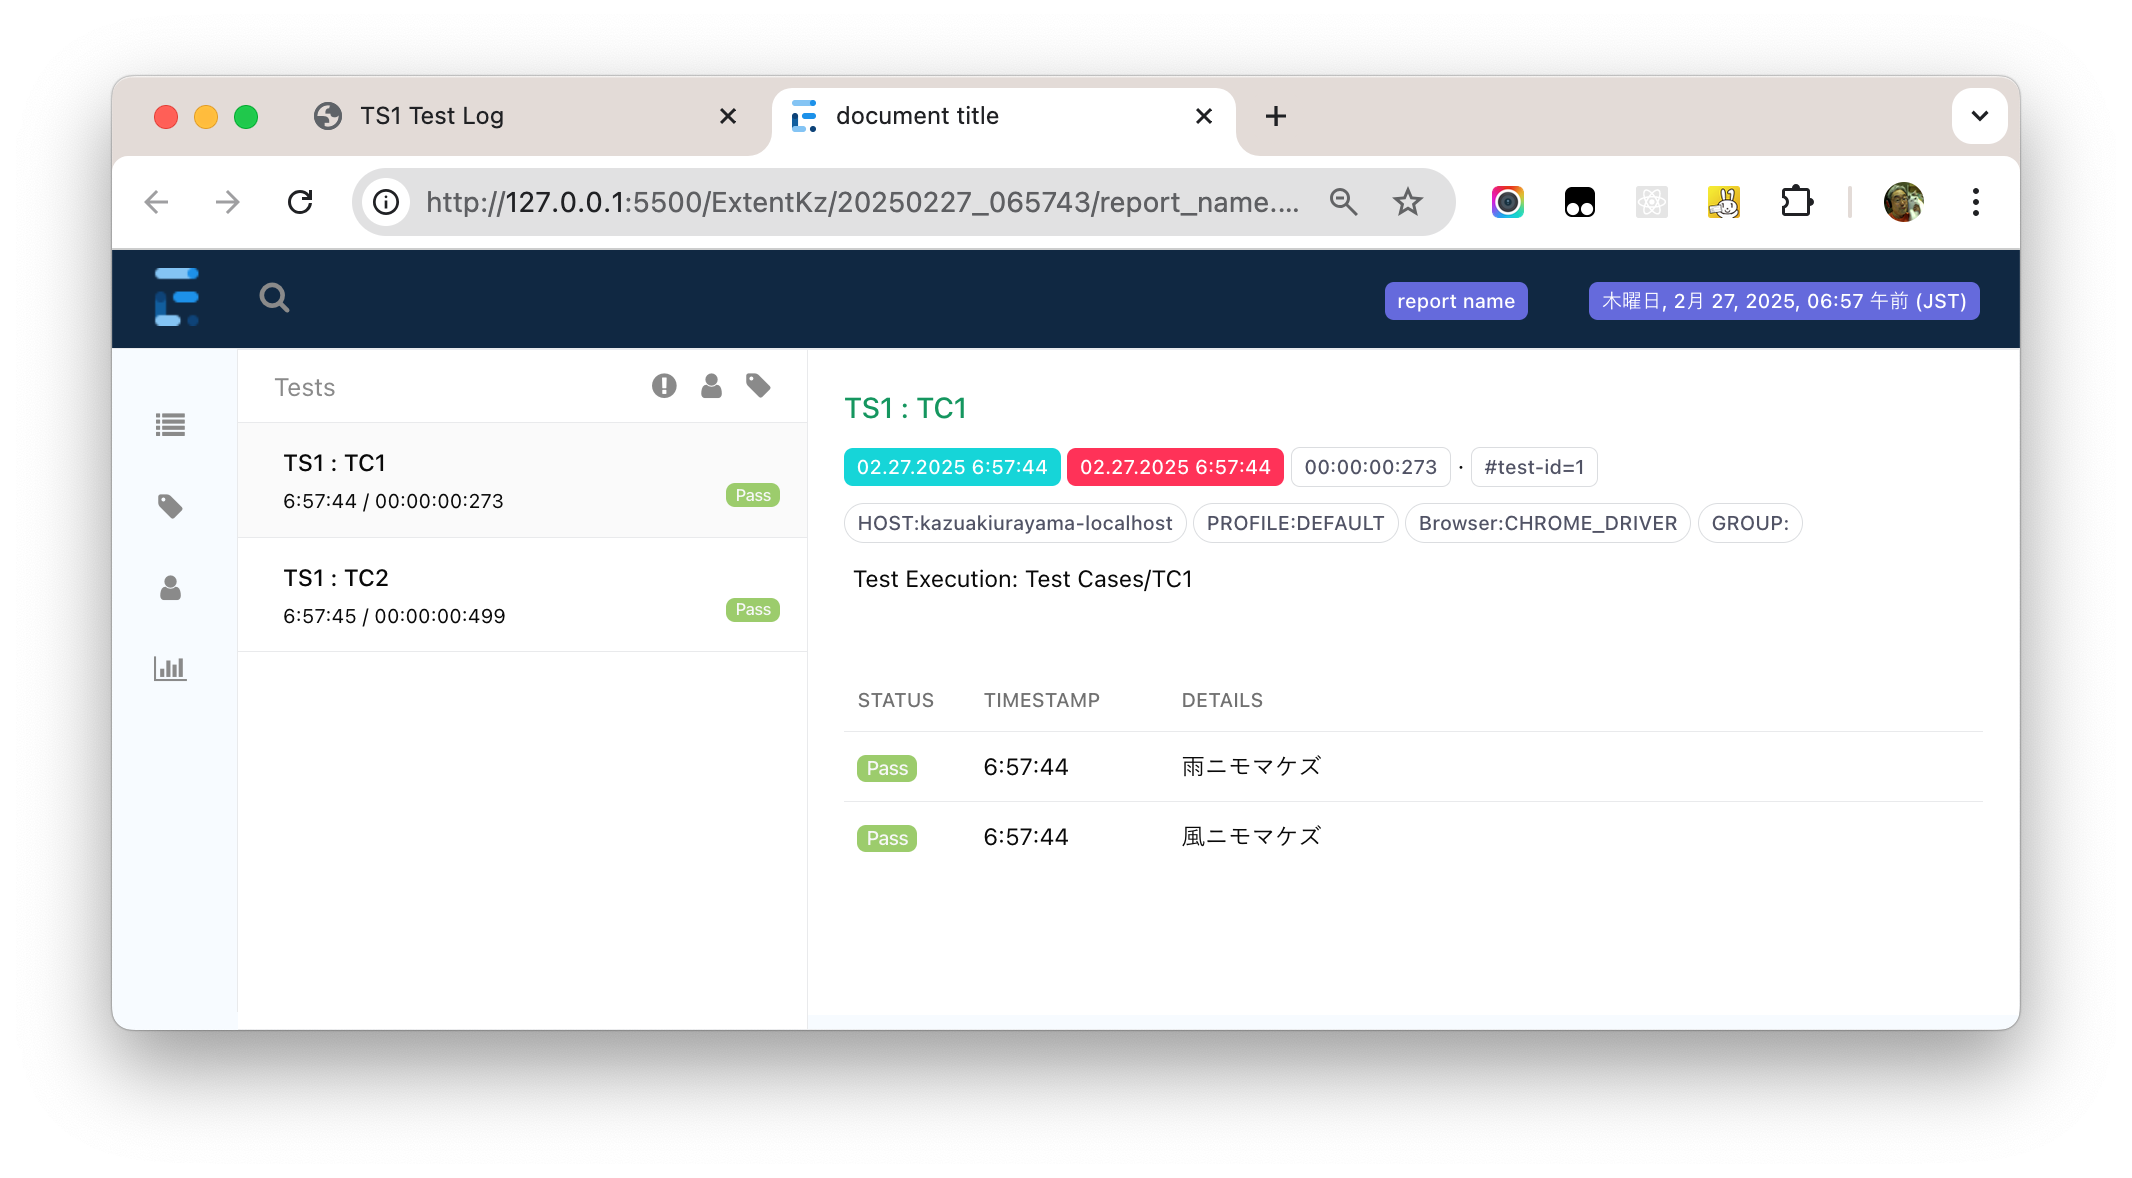
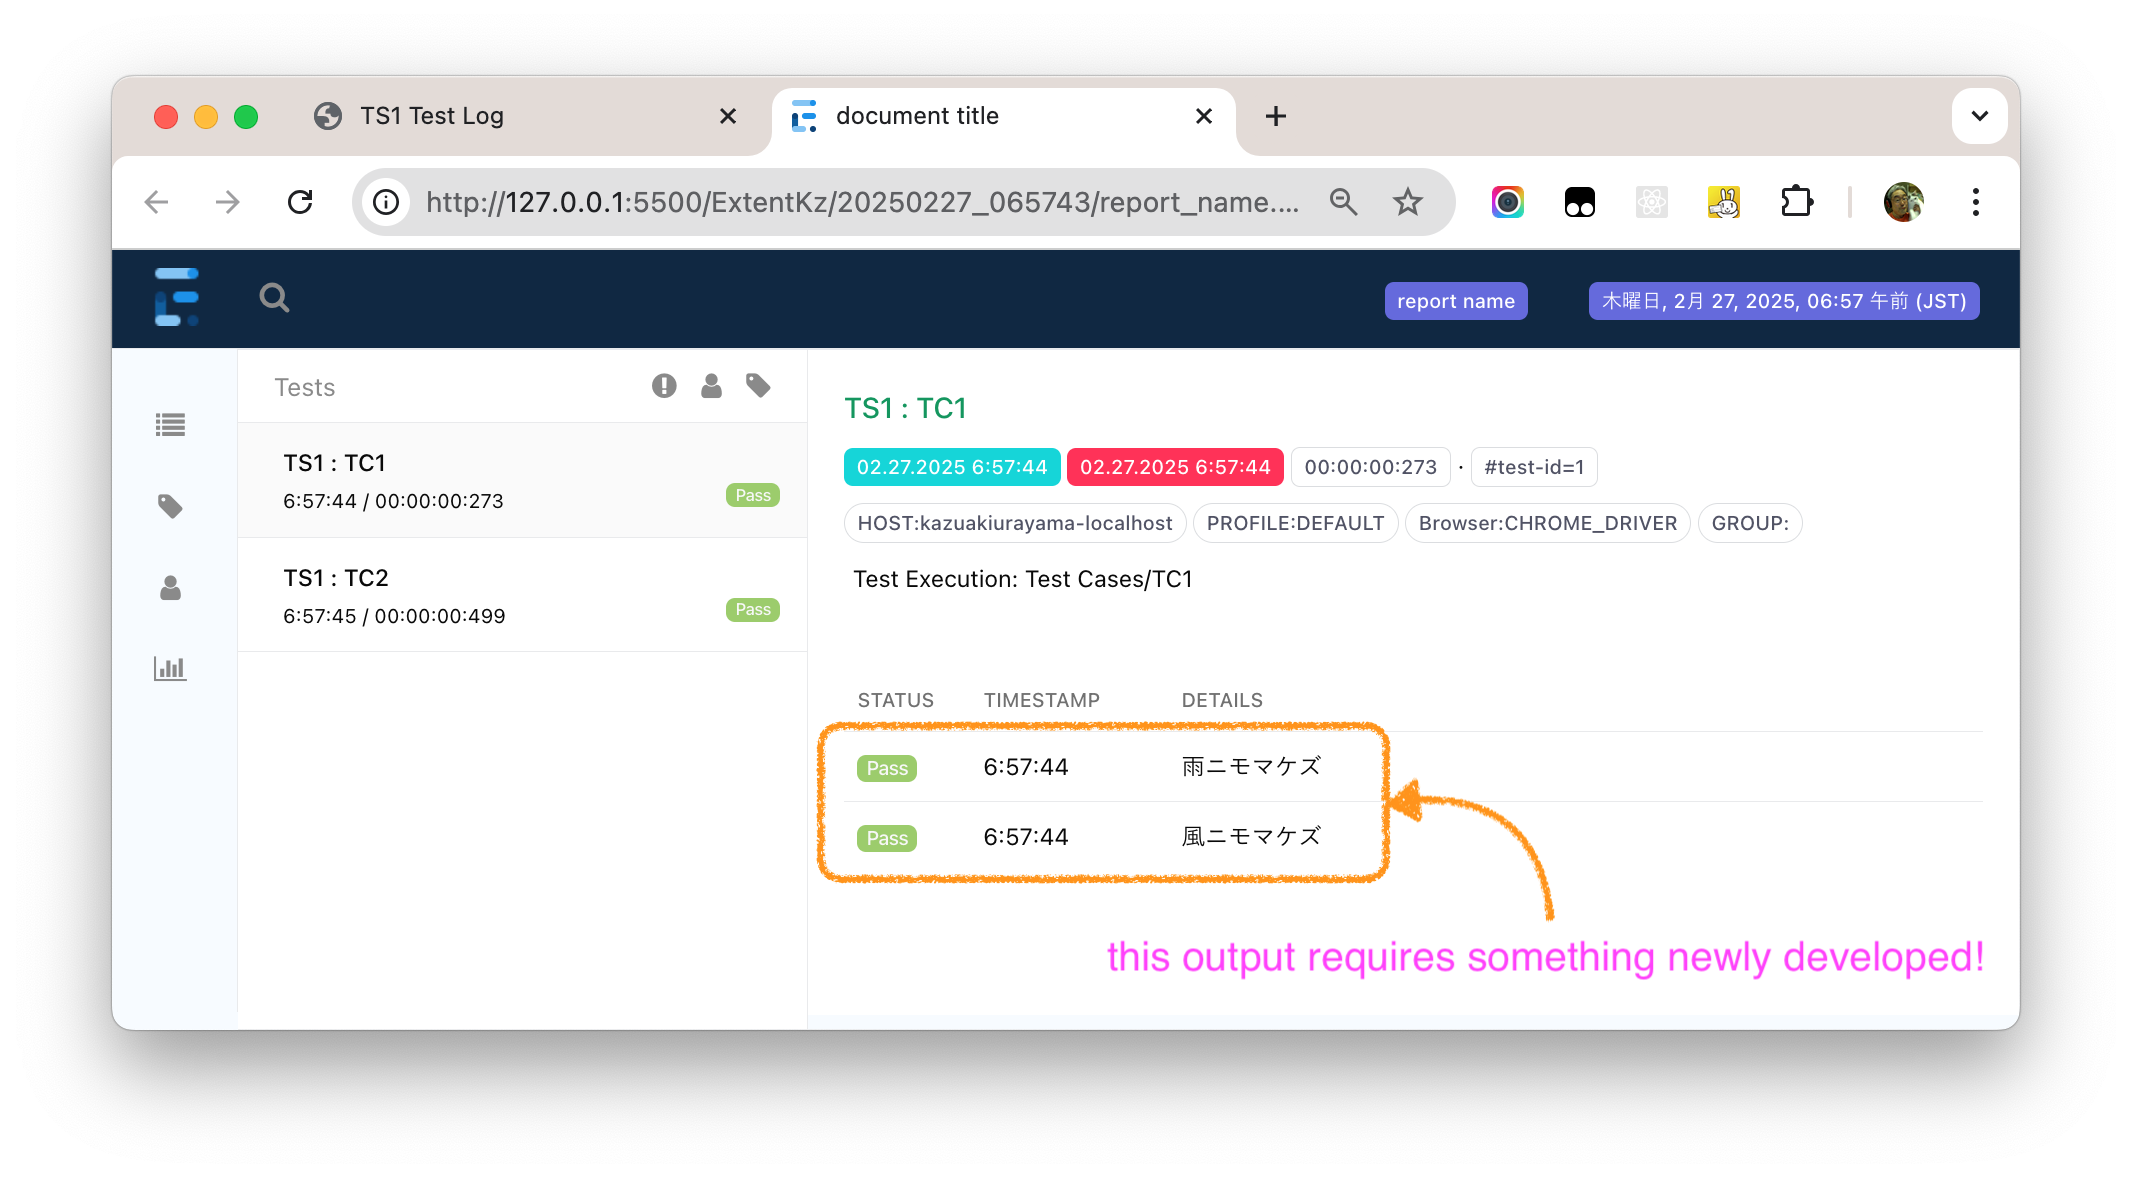
updated the docs (changed image to say this is a fake image)

diff --git a/docs/index.md b/docs/index.md
@@ -52,7 +52,9 @@ When I exected the `TS1`, Katalon Studio generated an HTML report like this:
 
 Every Katalon users will find there is nothing special in TS1, TC1, TC2 and the HTML report. It’s a boring stuff.
 
-Now I want to add another format of test execution report generated by [Extent Reports](https://extentreports.com/). The report looks something like this:
+### Adding a report by Extent Reports
+
+Now I want to add another format of test execution report generated by [Extent Reports](https://extentreports.com/). The following is a fake image of what I want to implement:
 
 ![TS1 ExtentReports](https://kazurayam.github.io/KS_Fake_KeywordLogger_Integrates_ExtentReports/images/TS1_ExtentReports.png)
 
@@ -89,11 +91,11 @@ We can read the source code of `com.kms.katalon.core.**` packages contained in t
 
 I started reading the source codes to find out how a call `WebUI.comment("雨ニモマケズ")` propagates through the call chains and how the message is written into the Console tab and the HTML report file located at `Reports/yyyyMMdd_hhmmss/TS1/yyyyMMdd_hhmmss/execution0.log` file. Eventurally I found it. Let me trace the path that I went through.
 
--   A call to `WebUI.comment("雨ニモマケズ")` in a Test Case script calls the `comment()` method of the `com.kms.katalon.core.webui.keyword.WebUiBuiltInKeywords` class but you can not find the method in the [source](https://github.com/kazurayam/KS_Fake_KeywordLogger_Integrates_ExtentReports/blob/main/docs/katalon-studio-source/10.0.0/source/com.kms.katalon.core.webui/com/kms/katalon/core/webui/keyword/WebUiBuiltInKeywords.groovy). The `comment()` method is actually implemented in the [`com.kms.katalon.core.keyword.BuiltInKeywords`](https://github.com/kazurayam/KS_Fake_KeywordLogger_Integrates_ExtentReports/blob/main/docs/katalon-studio-source/10.0.0/source/com.kms.katalon.core/com/kms/katalon/core/keyword/BuiltinKeywords.groovy) which is the parent class.
+- A call to `WebUI.comment("雨ニモマケズ")` in a Test Case script calls the `comment()` method of the `com.kms.katalon.core.webui.keyword.WebUiBuiltInKeywords` class but you can not find the method in the [source](https://github.com/kazurayam/KS_Fake_KeywordLogger_Integrates_ExtentReports/blob/main/docs/katalon-studio-source/10.0.0/source/com.kms.katalon.core.webui/com/kms/katalon/core/webui/keyword/WebUiBuiltInKeywords.groovy). The `comment()` method is actually implemented in the [`com.kms.katalon.core.keyword.BuiltInKeywords`](https://github.com/kazurayam/KS_Fake_KeywordLogger_Integrates_ExtentReports/blob/main/docs/katalon-studio-source/10.0.0/source/com.kms.katalon.core/com/kms/katalon/core/keyword/BuiltinKeywords.groovy) which is the parent class.
 
--   The `comment()` method of [`com.kms.katalon.core.keyword.BuiltInKeyword`](https://github.com/kazurayam/KS_Fake_KeywordLogger_Integrates_ExtentReports/blob/main/docs/katalon-studio-source/10.0.0/source/com.kms.katalon.core/com/kms/katalon/core/keyword/BuiltinKeywords.groovy) calls the `executeKeywordForPlatform()` method of the [`com.kms.katalon.core.keyword.internal.KeywordExecutor`](https://github.com/kazurayam/KS_Fake_KeywordLogger_Integrates_ExtentReports/blob/main/docs/katalon-studio-source/10.0.0/source/com.kms.katalon.core/com/kms/katalon/core/keyword/internal/KeywordExecutor.groovy).
+- The `comment()` method of [`com.kms.katalon.core.keyword.BuiltInKeyword`](https://github.com/kazurayam/KS_Fake_KeywordLogger_Integrates_ExtentReports/blob/main/docs/katalon-studio-source/10.0.0/source/com.kms.katalon.core/com/kms/katalon/core/keyword/BuiltinKeywords.groovy) calls the `executeKeywordForPlatform()` method of the [`com.kms.katalon.core.keyword.internal.KeywordExecutor`](https://github.com/kazurayam/KS_Fake_KeywordLogger_Integrates_ExtentReports/blob/main/docs/katalon-studio-source/10.0.0/source/com.kms.katalon.core/com/kms/katalon/core/keyword/internal/KeywordExecutor.groovy).
 
--   A call to `KeywordExecutor.executeKeywordForPlatform(KeywordExecutor.PLATFORM_BUILT_IN, "comment", message)` calls `comment(String message)` of the [`com.kms.katalon.core.keyword.builtin.CommentKeyword`](https://github.com/kazurayam/KS_Fake_KeywordLogger_Integrates_ExtentReports/blob/main/docs/katalon-studio-source/10.0.0/source/com.kms.katalon.core/com/kms/katalon/core/keyword/builtin/CommentKeyword.groovy). The method is implemented as follows:
+- A call to `KeywordExecutor.executeKeywordForPlatform(KeywordExecutor.PLATFORM_BUILT_IN, "comment", message)` calls `comment(String message)` of the [`com.kms.katalon.core.keyword.builtin.CommentKeyword`](https://github.com/kazurayam/KS_Fake_KeywordLogger_Integrates_ExtentReports/blob/main/docs/katalon-studio-source/10.0.0/source/com.kms.katalon.core/com/kms/katalon/core/keyword/builtin/CommentKeyword.groovy). The method is implemented as follows:
 
 <!-- -->
 
@@ -102,7 +104,7 @@ I started reading the source codes to find out how a call `WebUI.comment("雨ニ
             logger.logInfo(message)
         }
 
--   The variable named `logger` is declared in the [`com.kms.katalon.core.keyword.internal.AbstractKeyword`](https://github.com/kazurayam/KS_Fake_KeywordLogger_Integrates_ExtentReports/blob/main/docs/katalon-studio-source/10.0.0/source/com.kms.katalon.core/com/kms/katalon/core/keyword/internal/AbstractKeyword.groovy), which is the parent class of the `CommentKeyword` class, as follows:
+- The variable named `logger` is declared in the [`com.kms.katalon.core.keyword.internal.AbstractKeyword`](https://github.com/kazurayam/KS_Fake_KeywordLogger_Integrates_ExtentReports/blob/main/docs/katalon-studio-source/10.0.0/source/com.kms.katalon.core/com/kms/katalon/core/keyword/internal/AbstractKeyword.groovy), which is the parent class of the `CommentKeyword` class, as follows:
 
 <!-- -->
 
@@ -115,7 +117,7 @@ I started reading the source codes to find out how a call `WebUI.comment("雨ニ
 
         ...
 
--   The `logInfo(String)` method of [`com.kms.katalon.core.logging.KeywordLogger`](https://github.com/kazurayam/KS_Fake_KeywordLogger_Integrates_ExtentReports/blob/main/docs/katalon-studio-source/10.0.0/source/com.kms.katalon.core/com/kms/katalon/core/logging/KeywordLogger.java) is implemented as follows:
+- The `logInfo(String)` method of [`com.kms.katalon.core.logging.KeywordLogger`](https://github.com/kazurayam/KS_Fake_KeywordLogger_Integrates_ExtentReports/blob/main/docs/katalon-studio-source/10.0.0/source/com.kms.katalon.core/com/kms/katalon/core/logging/KeywordLogger.java) is implemented as follows:
 
 <!-- -->
 
@@ -202,23 +204,23 @@ Then a few jar files will be downloaded from the Maven Central repository in to 
 
 ### Codes created
 
--   [Include/scripts/groovy/com/kms/katalon/core/logging/KeywordLogger.groovy](https://github.com/kazurayam/KS_Fake_KeywordLogger_Integrates_ExtentReports/blob/develop/Include/scripts/groovy/com/kms/katalon/core/logging/KeywordLogger.groovy)
+- [Include/scripts/groovy/com/kms/katalon/core/logging/KeywordLogger.groovy](https://github.com/kazurayam/KS_Fake_KeywordLogger_Integrates_ExtentReports/blob/develop/Include/scripts/groovy/com/kms/katalon/core/logging/KeywordLogger.groovy)
 
--   [Include/scripts/groovy/com/kazurayam/ks/reporting/ReportAdapter.groovy](https://github.com/kazurayam/KS_Fake_KeywordLogger_Integrates_ExtentReports/blob/develop/Include/scripts/groovy/com/kazurayam/ks/reporting/ReportAdapter.groovy)
+- [Include/scripts/groovy/com/kazurayam/ks/reporting/ReportAdapter.groovy](https://github.com/kazurayam/KS_Fake_KeywordLogger_Integrates_ExtentReports/blob/develop/Include/scripts/groovy/com/kazurayam/ks/reporting/ReportAdapter.groovy)
 
--   [Include/scripts/groovy/com/kazurayam/ks/reporting/ReportAdapterExtentImpl.groovy](https://github.com/kazurayam/KS_Fake_KeywordLogger_Integrates_ExtentReports/blob/develop/Include/scripts/groovy/com/kazurayam/ks/reporting/ReportAdapterExtentImpl.groovy)
+- [Include/scripts/groovy/com/kazurayam/ks/reporting/ReportAdapterExtentImpl.groovy](https://github.com/kazurayam/KS_Fake_KeywordLogger_Integrates_ExtentReports/blob/develop/Include/scripts/groovy/com/kazurayam/ks/reporting/ReportAdapterExtentImpl.groovy)
 
--   [Include/scripts/groovy/com/kazurayam/ks/reporting/ReportAdaptersLoader.groovy](https://github.com/kazurayam/KS_Fake_KeywordLogger_Integrates_ExtentReports/blob/develop/Include/scripts/groovy/com/kazurayam/ks/reporting/ReportAdaptersLoader.groovy)
+- [Include/scripts/groovy/com/kazurayam/ks/reporting/ReportAdaptersLoader.groovy](https://github.com/kazurayam/KS_Fake_KeywordLogger_Integrates_ExtentReports/blob/develop/Include/scripts/groovy/com/kazurayam/ks/reporting/ReportAdaptersLoader.groovy)
 
--   [reporting.config.json](https://github.com/kazurayam/KS_Fake_KeywordLogger_Integrates_ExtentReports/blob/develop/reporting.config.json)
+- [reporting.config.json](https://github.com/kazurayam/KS_Fake_KeywordLogger_Integrates_ExtentReports/blob/develop/reporting.config.json)
 
--   [Test%20Listeners/CustomReportsListener.groovy](https://github.com/kazurayam/KS_Fake_KeywordLogger_Integrates_ExtentReports/blob/develop/Test%20Listeners/CustomReportsListener.groovy)
+- [Test%20Listeners/CustomReportsListener.groovy](https://github.com/kazurayam/KS_Fake_KeywordLogger_Integrates_ExtentReports/blob/develop/Test%20Listeners/CustomReportsListener.groovy)
 
--   [Test Cases/main/TC1](https://github.com/kazurayam/KS_Fake_KeywordLogger_Integrates_ExtentReports/blob/develop/Scripts/main/TC1/Script1740559328725.groovy)
+- [Test Cases/main/TC1](https://github.com/kazurayam/KS_Fake_KeywordLogger_Integrates_ExtentReports/blob/develop/Scripts/main/TC1/Script1740559328725.groovy)
 
--   [Test Cases/main/TC2](https://github.com/kazurayam/KS_Fake_KeywordLogger_Integrates_ExtentReports/blob/develop/Scripts/main/TC2/Script1740576074455.groovy)
+- [Test Cases/main/TC2](https://github.com/kazurayam/KS_Fake_KeywordLogger_Integrates_ExtentReports/blob/develop/Scripts/main/TC2/Script1740576074455.groovy)
 
--   [Test%20Suites/TS1.ts](https://github.com/kazurayam/KS_Fake_KeywordLogger_Integrates_ExtentReports/blob/develop/Test%20Suites/TS1.ts)
+- [Test%20Suites/TS1.ts](https://github.com/kazurayam/KS_Fake_KeywordLogger_Integrates_ExtentReports/blob/develop/Test%20Suites/TS1.ts)
 
 I learned a lot out of the GitHub repository [extent-report-sample](https://github.com/coty/extent-report-sample) by @coty.
 
